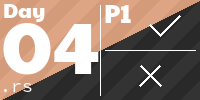
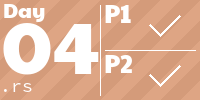
feat: day 4 part 2

diff --git a/src/solutions/day_4.rs b/src/solutions/day_4.rs
@@ -3,14 +3,16 @@ use std::collections::HashSet;
 use crate::utils::{get_input::get_aoc_input, parsing::split_lines};
 
 /// Runs the solution for Advent of Code Day 4.
-pub fn day_4() -> u64 {
-    let part_1 = find_total_accessible_rolls();
-    println!("Day 4! Part 1: {:?}", part_1);
-
-    part_1
+pub fn day_4() {
+    let part_1 = find_total_accessible_rolls(None);
+    println!(
+        "Day 4! Part 1: {:?}, Part 2: {:?}",
+        part_1.len(),
+        remove_rolls_as_you_go()
+    );
 }
 
-fn get_neighbours(x: usize, y: usize) -> Vec<(isize, isize)> {
+fn get_neighbours(x: u32, y: u32) -> Vec<(isize, isize)> {
     let directions = [
         (-1, -1),
         (-1, 0),
@@ -28,28 +30,35 @@ fn get_neighbours(x: usize, y: usize) -> Vec<(isize, isize)> {
         .collect()
 }
 
-fn get_roll_coords() -> (HashSet<(usize, usize)>, usize, usize) {
+fn get_roll_coords() -> HashSet<(u32, u32)> {
     let input: Vec<String> = split_lines(get_aoc_input(2025, 4));
-    let mut roll_map: HashSet<(usize, usize)> = HashSet::new();
-    let max_x = input[0].len();
-    let max_y = input.len();
+    let mut roll_map: HashSet<(u32, u32)> = HashSet::new();
     for (x_coord, row) in input.iter().enumerate() {
         for (y_coord, char) in row.chars().enumerate() {
-            if char.to_string() == "@".to_string() {
-                roll_map.insert((x_coord, y_coord));
+            if char.to_string() == "@" {
+                roll_map.insert((
+                    u32::try_from(x_coord).unwrap(),
+                    u32::try_from(y_coord).unwrap(),
+                ));
             }
         }
     }
-    (roll_map, max_x, max_y)
+    roll_map
 }
-fn find_total_accessible_rolls() -> u64 {
-    let (roll_map, max_x, max_y) = get_roll_coords();
-    let mut accessible_rolls: u64 = 0;
+
+fn find_total_accessible_rolls(roll_map: Option<&HashSet<(u32, u32)>>) -> Vec<(u32, u32)> {
+    let default_roll_map = if roll_map.is_none() {
+        get_roll_coords()
+    } else {
+        HashSet::new()
+    };
+    let roll_map: &HashSet<(u32, u32)> = roll_map.unwrap_or(&default_roll_map);
+    let mut accessible_rolls: Vec<(u32, u32)> = Vec::new();
     for roll in roll_map.iter() {
         let neighbours = get_neighbours(roll.0, roll.1);
         let mut adjacent_rolls = 0;
         for neighbour in neighbours.iter() {
-            if let (Ok(nx), Ok(ny)) = (usize::try_from(neighbour.0), usize::try_from(neighbour.1)) {
+            if let (Ok(nx), Ok(ny)) = (u32::try_from(neighbour.0), u32::try_from(neighbour.1)) {
                 if roll_map.contains(&(nx, ny)) {
                     adjacent_rolls += 1;
                 }
@@ -57,11 +66,32 @@ fn find_total_accessible_rolls() -> u64 {
         }
 
         if adjacent_rolls < 4 {
-            accessible_rolls += 1;
+            accessible_rolls.push(*roll);
         }
     }
 
     accessible_rolls
+}
+
+fn remove_rolls_as_you_go() -> u32 {
+    let mut roll_map: HashSet<(u32, u32)> = get_roll_coords();
+    let mut removed_rolls: HashSet<(u32, u32)> = HashSet::new();
+    while !roll_map.is_empty() {
+        let touched: HashSet<(u32, u32)> = find_total_accessible_rolls(Some(&roll_map))
+            .into_iter()
+            .collect();
+        if removed_rolls.is_superset(&touched) || roll_map.intersection(&touched).count() == 0 {
+            // If we've already seen all these items, stop the loop as we've maxed out
+            // all the rolls we can touch
+            break;
+        }
+        for item in touched.iter() {
+            removed_rolls.insert(*item);
+            roll_map.remove(item);
+        }
+    }
+
+    u32::try_from(removed_rolls.len()).unwrap()
 }
 
 #[cfg(test)]
@@ -69,6 +99,10 @@ mod tests {
     use super::*;
     #[test]
     fn test_day_3() {
-        assert_eq!(find_total_accessible_rolls(), 13);
+        assert_eq!(find_total_accessible_rolls(None).len(), 13);
+    }
+    #[test]
+    fn test_day_3_part_2() {
+        assert_eq!(remove_rolls_as_you_go(), 43);
     }
 }

diff --git a/README.md b/README.md
@@ -44,7 +44,7 @@ cargo doc && cargo doc --open
 
 <!-- AOC TILES BEGIN -->
 <h1 align="center">
-  2025 - 13 ⭐ - Rust
+  2025 - 14 ⭐ - Rust
 </h1>
 <a href="src/solutions/day_1.rs">
   <img src=".aoc_tiles/tiles/2025/01.png" width="203px">
